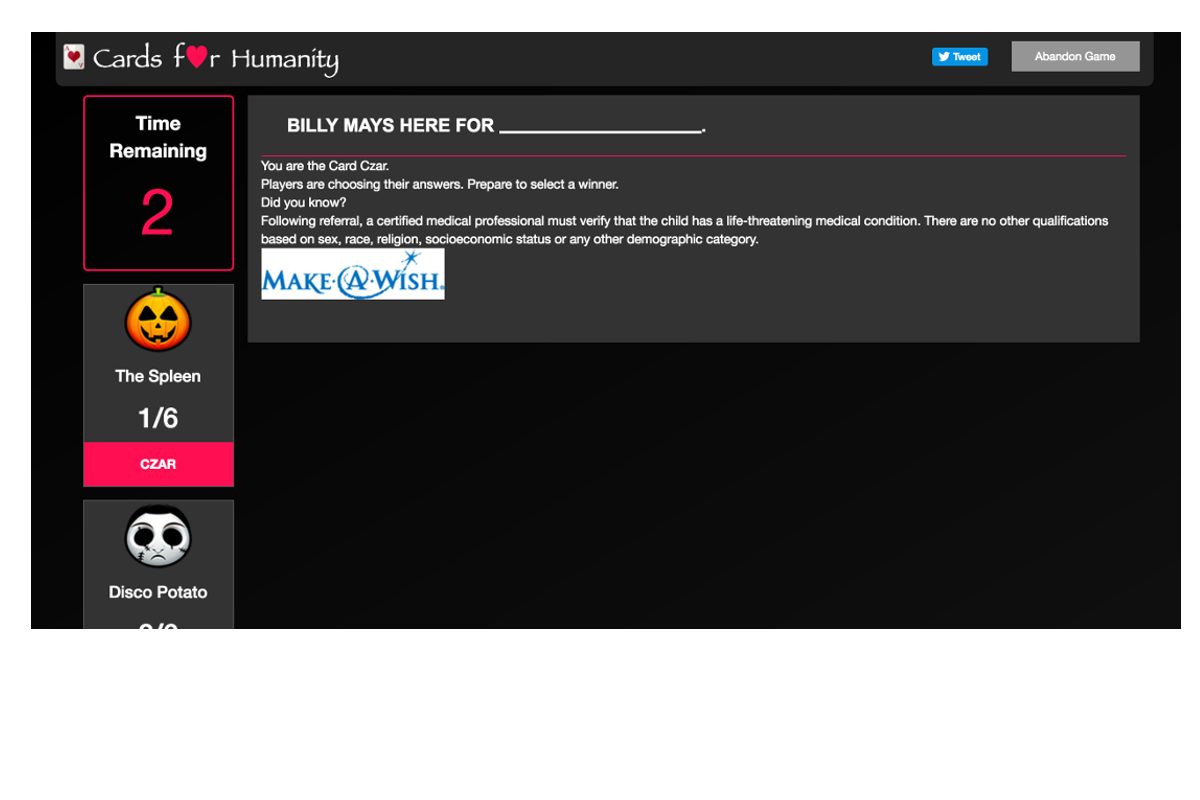
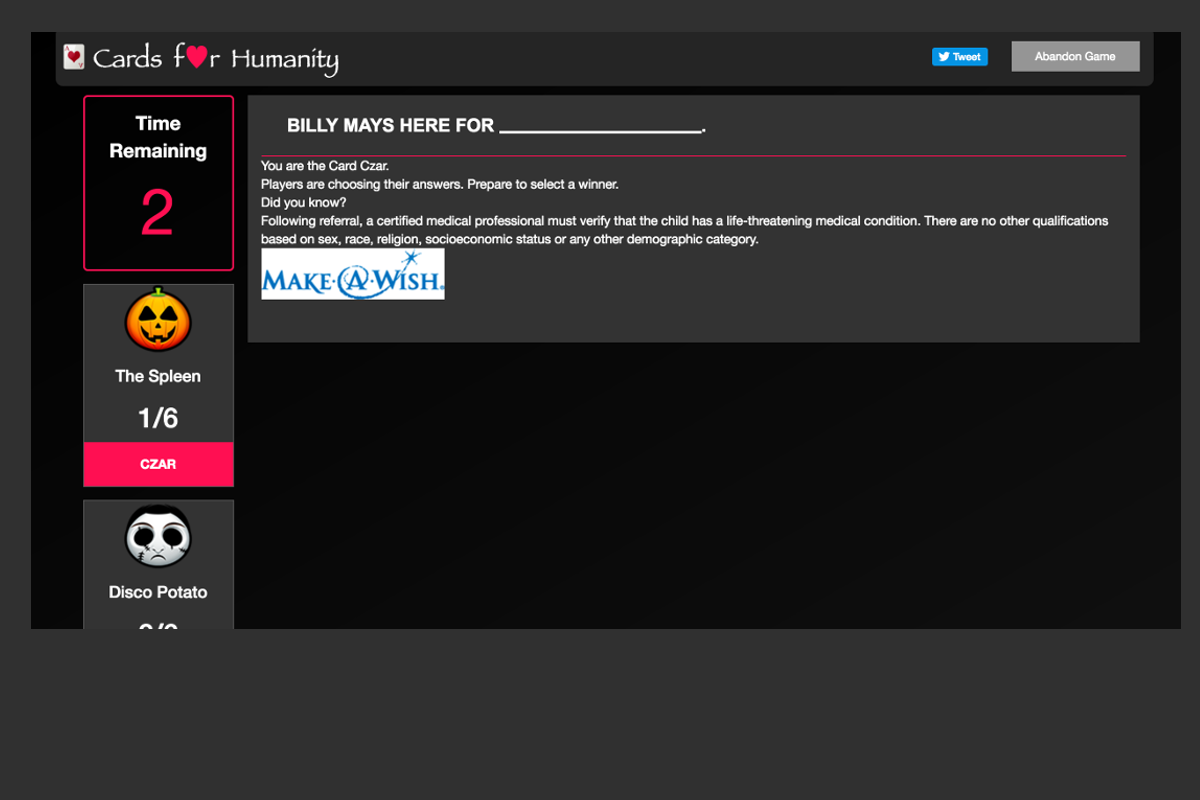
fix ui bugs

Changed region(s): [[0.0, 0.0, 1.0, 1.0]]

diff --git a/public/css/common.css b/public/css/common.css
@@ -148,7 +148,7 @@
       display: inline-block;
       content: '.'; }
 
-html, body, .main-container, .cont, #first-section, #inner-container {
+html, .main-container, .cont, #first-section, #inner-container {
   height: 100%; }
 
 html {
@@ -171,22 +171,22 @@ html {
     html {
       margin-top: 0px; } }
 
-body {
-  font-family: "helvetica neue", helvetica, sans-serif;
-  background: #252525;
-  margin: 10px; }
-  body .full-horizontal-whitespace {
-    margin-bottom: 10%; }
-  body .half-horizontal-whitespace {
-    margin-bottom: 5%; }
-  body .quarter-horizontal-whitespace {
-    margin-bottom: 2.5%; }
-  @media only screen and (min-width: 521px) and (max-width: 768px) {
-    body {
-      margin: 5px; } }
-  @media (max-width: 520px) {
-    body {
-      margin: 1px; } }
+body .full-horizontal-whitespace {
+  margin-bottom: 10%; }
+
+body .half-horizontal-whitespace {
+  margin-bottom: 5%; }
+
+body .quarter-horizontal-whitespace {
+  margin-bottom: 2.5%; }
+
+@media only screen and (min-width: 521px) and (max-width: 768px) {
+  body {
+    margin: 5px; } }
+
+@media (max-width: 520px) {
+  body {
+    margin: 1px; } }
 
 .navbar .nav > li > a.brand {
   padding-left: 20px;
@@ -199,9 +199,6 @@ body {
 #main-container {
   height: 100%; }
   #main-container .leave-game-btn {
-    font-size: 20px;
-    font-size: 1.25rem;
-    font-weight: 400;
     text-align: center;
     color: white;
     background: #959595; }
@@ -268,7 +265,7 @@ body {
           color: #ff1a56;
           font-size: 5em; }
       #main-container #app-container #gameplay-container-outer #gameplay-container-inner #left-gameplay-container #players-container {
-        height: 300px;
+        height: 400px;
         position: relative; }
         #main-container #app-container #gameplay-container-outer #gameplay-container-inner #left-gameplay-container #players-container .player-container {
           margin-bottom: 1em;
@@ -289,7 +286,6 @@ body {
           margin-bottom: 1em;
           margin-top: 1em; }
         #main-container #app-container #gameplay-container-outer #gameplay-container-inner #main-gameplay-container #answers-container-outer #info-container {
-          background-color: #252525;
           border-radius: 5px;
           margin: 1em;
           padding: 1em; }

diff --git a/public/css/common.scss b/public/css/common.scss
@@ -492,7 +492,7 @@ background-image: linear-gradient(to bottom right, #000 0%, #101010 100%);
     }
 }
 
-html, body, .main-container, .cont, #first-section, #inner-container{
+html, .main-container, .cont, #first-section, #inner-container{
     height: 100%;
 }
 
@@ -508,10 +508,6 @@ html{
     }
 }
 body {
-    font-family: $main-font;
-    background: $site-deep-black;
-    margin: 10px;
-
     .full-horizontal-whitespace {
       margin-bottom: 10%;
     }
@@ -548,9 +544,6 @@ body {
     height: 100%;
 
     .leave-game-btn {
-        font-size: 20px;
-        font-size: 1.25rem;
-        font-weight: 400;
         text-align: center;
         color: white;
         background: #959595;
@@ -644,7 +637,7 @@ body {
                     }
                     
                     #players-container {
-                        height: 300px;
+                        height: 400px;
                         position: relative;
 
                         .player-container {
@@ -680,7 +673,6 @@ body {
 
                     #answers-container-outer {
                         #info-container {
-                            background-color: $site-deep-black;
                             border-radius: 5px;
                             margin: 1em;
                             padding: 1em;
